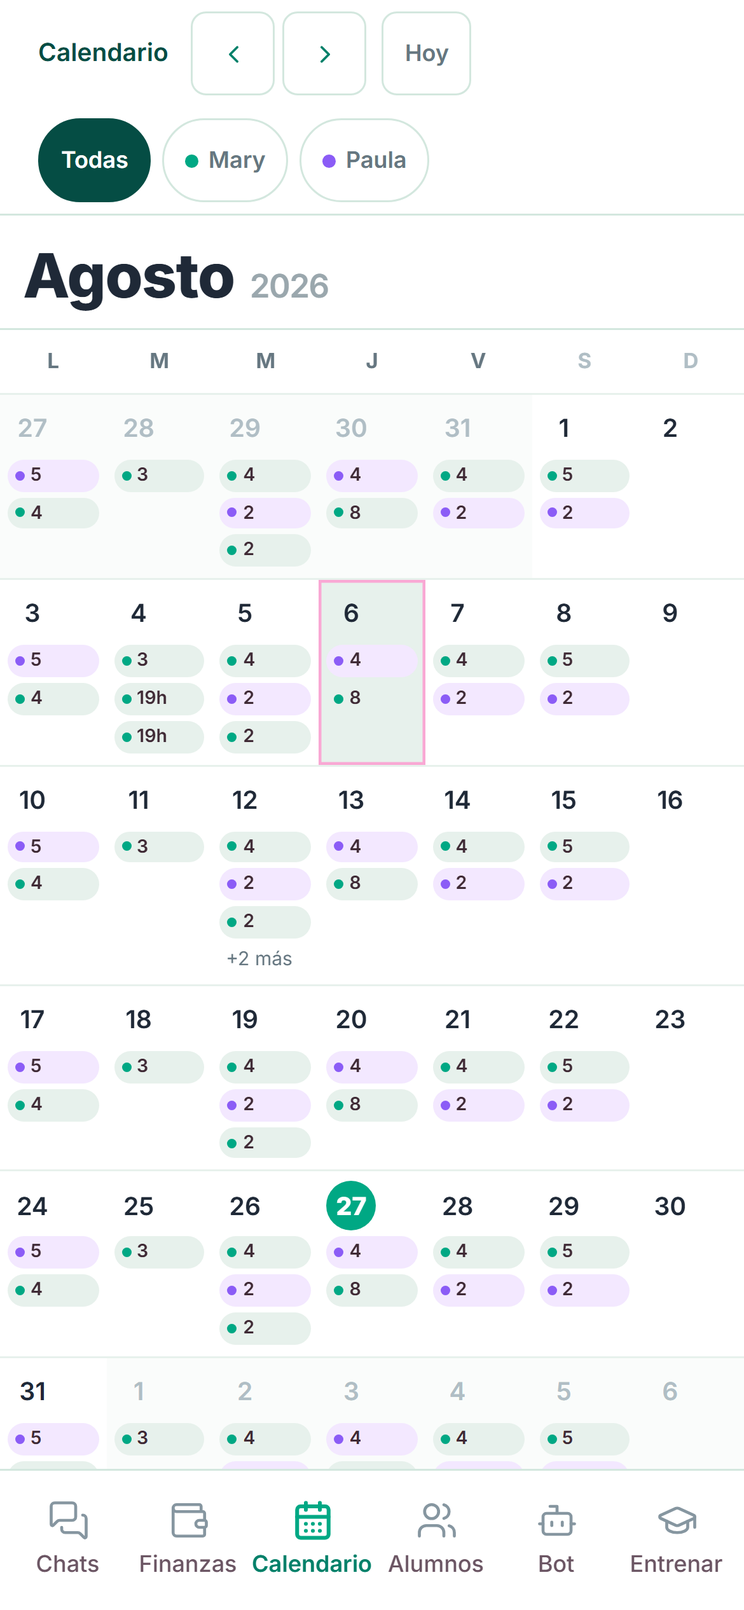
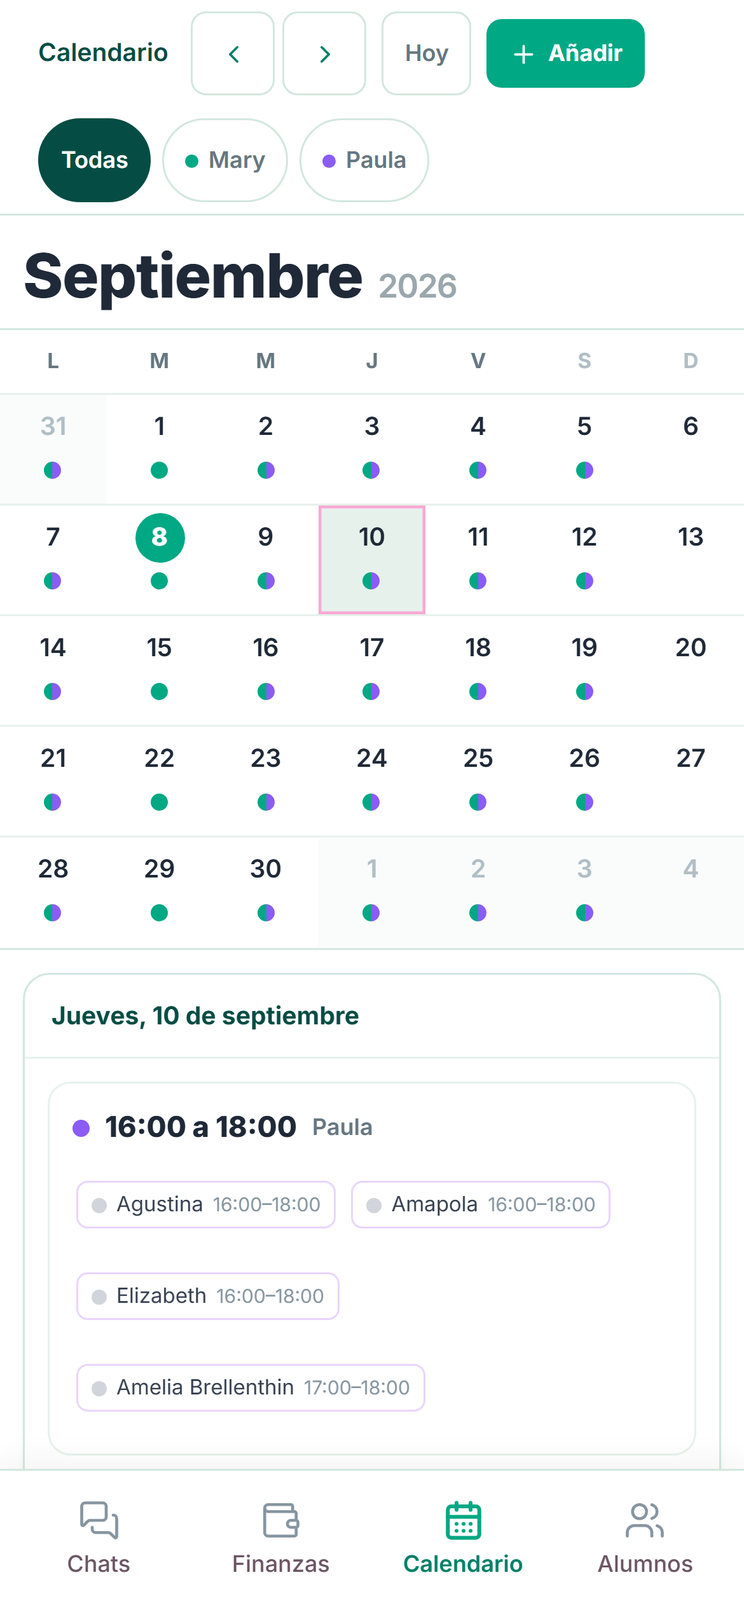
feat(calendario): un punto por dia, Anadir arriba y los alumnos del CRM
Los cinco encargos de Lukas del 08-09-2026 sobre el calendario:

- Fuera el boton "Dictar" (la pantalla de voz y /api/clases/voz siguen vivas).
- "Formulario" pasa a llamarse "Anadir" y sube a la barra del mes: en el
  telefono el detalle del dia queda DEBAJO del mes entero, asi que el boton
  vivia a un scroll de distancia.
- El mes en el telefono deja de estar lleno de pildoras: UN punto por dia,
  verde si solo hay clases de Mary, morado si solo son de Paula y partido por
  la mitad si estan las dos. En el computador no cambia nada.
- Fuera la linea verde de la izquierda de cada bloque y las pildoras de adorno
  ("vienen 4", "todas las semanas"): queda punto + hora + profesora y los
  alumnos debajo.
- El buscador de alumnos lista SOLO el CRM (37 fichas) y no los 74 contactos
  de WhatsApp, y guarda por nombre, no por id de la tabla clientes.

El test del iPhone custodiaba la regla contraria (celda alta con los nombres
escritos, que el pidio el 27-08): se reescribio a la regla nueva. 33/33.

diff --git a/src/app/calendario/page.tsx b/src/app/calendario/page.tsx
@@ -3,7 +3,7 @@
 import { useCallback, useEffect, useRef, useState } from 'react'
 import AppNav from '@/components/AppNav'
 import FormularioExtras, { type TipoExtra, type HorarioSala } from '@/components/FormularioExtras'
-import { DIA_LABEL, PROFES, PROFE_NOMBRES, profeColor, diaFromFecha } from '@/lib/calendario'
+import { DIA_LABEL, DIAS, PROFES, PROFE_NOMBRES, profeColor, diaFromFecha } from '@/lib/calendario'
 import { bloquesDelDia, type Ausencia, type InscripcionConAlumno, type AlumnoEnDia } from '@/lib/dia-clases'
 import { Plus, Trash2, Pencil, X, ChevronLeft, ChevronRight, Mic, Keyboard } from 'lucide-react'
 
@@ -16,6 +16,11 @@ type PagoFijo = { id: number; tipo: string; descripcion: string | null; monto: n
 // Recordatorio puntual de Mary: el aviso va a SU WhatsApp, nunca al apoderado.
 type Recordatorio = { id: number; fecha: string; hora: string | null; texto: string; avisar: boolean; enviadoAt: number | null; hecho: boolean; outboxId?: number | null }
 type ClienteLite = { id: number; nombre: string | null; telefono: string; horario: string[] }
+// Los alumnos del CRM (pestaña Alumnos). Es de donde sale el buscador del formulario
+// desde el 08-09-2026: antes listaba la tabla `clientes`, o sea TODOS los contactos de
+// WhatsApp (mamás preguntando precio incluidas), y Mary tenía que pescar a su alumno
+// entre gente que nunca fue a clases.
+type AlumnoCrm = { id: number; nombre: string; inscripciones: { dia: string; hora: string; profe: string | null }[] }
 // Quién vino y quién faltó. Lo llena el pase de lista de las 21:00 por WhatsApp,
 // y ella lo corrige tocando el puntito (ahí queda con fuente 'panel').
 type AsistenciaRow = { id: number; fecha: string; alumno: string; estado: 'vino' | 'falto'; fuente: string }
@@ -59,6 +64,21 @@ function fechaLarga(f: string): string {
   return capital(d.toLocaleDateString('es-CL', { weekday: 'long', day: 'numeric', month: 'long' }))
 }
 
+// El punto único del día en el teléfono. Una sola bolita en vez de la lista de
+// píldoras: verde si ese día solo hay clases de Mary, morado si solo son de Paula,
+// y partida por la mitad si están las dos (Lukas, 08-09-2026). El orden lo manda
+// PROFES, para que el verde caiga siempre a la izquierda.
+function puntoDelDia(chips: { pc: { nombre: string; color: string } }[]): { clave: string; fondo: string } | null {
+  if (chips.length === 0) return null
+  const orden = (n: string) => { const i = PROFES.findIndex(p => p.nombre === n); return i === -1 ? 99 : i }
+  const vistos = new Map<string, string>()
+  for (const c of chips) if (!vistos.has(c.pc.nombre)) vistos.set(c.pc.nombre, c.pc.color)
+  const profes = [...vistos.entries()].sort((a, b) => orden(a[0]) - orden(b[0]))
+  if (profes.length === 1) return { clave: profes[0][0].toLowerCase() || 'sin-profe', fondo: profes[0][1] }
+  const [a, b] = profes
+  return { clave: 'mixto', fondo: `linear-gradient(90deg, ${a[1]} 0 50%, ${b[1]} 50% 100%)` }
+}
+
 export default function CalendarioPage() {
   const hoy = ymd(new Date())
   const [cursor, setCursor] = useState(() => { const t = new Date(); return { y: t.getFullYear(), m: t.getMonth() } })
@@ -67,7 +87,10 @@ export default function CalendarioPage() {
   const [fijas, setFijas] = useState<ClaseFija[]>([])
   const [pagos, setPagos] = useState<PagoFijo[]>([])
   const [recordatorios, setRecordatorios] = useState<Recordatorio[]>([])
+  // `clientes` sigue vivo solo para PONERLE NOMBRE a las clases viejas, que guardaron
+  // ids de esa tabla. El buscador del formulario ya no lo usa.
   const [clientes, setClientes] = useState<ClienteLite[]>([])
+  const [alumnosCrm, setAlumnosCrm] = useState<AlumnoCrm[]>([])
   const [asistencia, setAsistencia] = useState<AsistenciaRow[]>([])
   // El horario de verdad: cada alumno con su día, su hora de salida y su profesora.
   // Vale para todas las semanas, así que se pide UNA vez y dibuja el mes entero.
@@ -110,7 +133,7 @@ export default function CalendarioPage() {
   const load = useCallback(async (d: string, h: string) => {
     setLoading(true)
     try {
-      const [c, cl, fj, pg, rc, as, ins, au] = await Promise.all([
+      const [c, cl, fj, pg, rc, as, ins, au, al] = await Promise.all([
         fetch(`/api/clases?desde=${d}&hasta=${h}`).then(r => r.json()),
         fetch('/api/clientes').then(r => r.json()),
         fetch('/api/clases-fijas').then(r => r.json()),
@@ -119,7 +142,9 @@ export default function CalendarioPage() {
         fetch(`/api/asistencia?desde=${d}&hasta=${h}`).then(r => r.json()),
         fetch('/api/inscripciones').then(r => r.json()),
         fetch(`/api/ausencias?desde=${d}&hasta=${h}`).then(r => r.json()),
+        fetch('/api/alumnos').then(r => r.json()),
       ])
+      if (al.ok) setAlumnosCrm(al.alumnos)
       if (as.ok) setAsistencia(as.asistencia)
       if (c.ok) setClases(c.clases)
       if (cl.ok) setClientes(cl.clientes)
@@ -152,9 +177,11 @@ export default function CalendarioPage() {
   }
   function openEdit(c: Clase) {
     setEditId(c.id); setSearch(''); setTipoForm('clase')
-    const nums = c.alumnos.filter((a): a is number => typeof a === 'number')
-    const extra = c.alumnos.filter((a) => typeof a !== 'number')
-    setForm({ fecha: c.fecha ?? sel, profe: c.profe, hora: c.hora ?? '', alumnos: nums, alumnosExtra: extra, nota: c.nota ?? '' })
+    // Los alumnos se manejan SIEMPRE por nombre (08-09-2026). Una clase vieja guardada
+    // con ids de la tabla `clientes` se traduce acá con el nombre que ya se muestra en
+    // pantalla, así al reeditarla no se pierde a nadie ni cambia lo que Mary ve.
+    const nombres = c.alumnos.map(a => etiquetaAlumno(a))
+    setForm({ fecha: c.fecha ?? sel, profe: c.profe, hora: c.hora ?? '', alumnos: [], alumnosExtra: nombres, nota: c.nota ?? '' })
     setShowForm(true)
   }
   function closeForm() { setShowForm(false); setEditId(null) }
@@ -342,7 +369,12 @@ export default function CalendarioPage() {
       if (ya) ya.alumnos.push(i.nombre)
       else m.set(clave, { clave, dia: i.dia, hora: i.hora, horaFin: i.horaFin, profe: i.profe, alumnos: [i.nombre] })
     }
-    return [...m.values()].sort((a, b) => a.dia.localeCompare(b.dia) || a.hora.localeCompare(b.hora))
+    // De LUNES a SÁBADO, y dentro de cada día de la hora más temprana a la más
+    // tarde. Antes se ordenaba con localeCompare, o sea por ALFABETO: salía
+    // "Jueves" antes que "Lunes" (Lukas, 08-09-2026). El orden bueno es el de
+    // DIAS en src/lib/calendario.ts; un día desconocido se va al final.
+    const orden = (d: string) => { const i = DIAS.indexOf(d as (typeof DIAS)[number]); return i === -1 ? 99 : i }
+    return [...m.values()].sort((a, b) => orden(a.dia) - orden(b.dia) || a.hora.localeCompare(b.hora))
   })()
 
   // El chip de un alumno suelto (clases viejas y eventos puntuales): sin ficha no
@@ -455,17 +487,27 @@ export default function CalendarioPage() {
     } catch { alert('No se pudo guardar. Revisa tu internet.') }
   }
 
-  // Selector de alumnos del modal: primero los que vienen ese día, con búsqueda.
+  // Selector de alumnos del modal: SOLO los del CRM (pestaña Alumnos), primero los que
+  // vienen ese día, con búsqueda. Se guardan por NOMBRE, que es como el calendario ya
+  // pinta a los alumnos sueltos y como la asistencia los reconoce.
   const diaForm = diaFromFecha(form.fecha)
-  const clientesOrdenados = [...clientes]
-    .filter(c => !search.trim() || (c.nombre ?? '').toLowerCase().includes(search.toLowerCase()))
+  const vieneEseDia = (a: AlumnoCrm) => a.inscripciones.some(i => i.dia === diaForm)
+  const alumnosOrdenados = [...alumnosCrm]
+    .filter(a => !search.trim() || a.nombre.toLowerCase().includes(search.toLowerCase()))
     .sort((a, b) => {
-      const ad = a.horario.includes(diaForm) ? 0 : 1
-      const bd = b.horario.includes(diaForm) ? 0 : 1
-      return ad - bd || (a.nombre ?? '').localeCompare(b.nombre ?? '')
+      const ad = vieneEseDia(a) ? 0 : 1
+      const bd = vieneEseDia(b) ? 0 : 1
+      return ad - bd || a.nombre.localeCompare(b.nombre)
     })
-  function toggleAlumno(id: number) {
-    setForm(f => ({ ...f, alumnos: f.alumnos.includes(id) ? f.alumnos.filter(x => x !== id) : [...f.alumnos, id] }))
+  const estaElegido = (nombre: string) =>
+    form.alumnosExtra.some(x => String(x).toLowerCase() === nombre.toLowerCase())
+  function toggleAlumno(nombre: string) {
+    setForm(f => ({
+      ...f,
+      alumnosExtra: estaElegido(nombre)
+        ? f.alumnosExtra.filter(x => String(x).toLowerCase() !== nombre.toLowerCase())
+        : [...f.alumnosExtra, nombre],
+    }))
   }
 
   const monthName = capital(new Date(cursor.y, cursor.m, 1).toLocaleDateString('es-CL', { month: 'long', year: 'numeric' }))
@@ -483,6 +525,13 @@ export default function CalendarioPage() {
             <span className="cal-mes-barra" style={{ fontSize: 13, fontWeight: 700, color: '#054D44', minWidth: 130, textAlign: 'center' }}>{monthName}</span>
             <button onClick={() => goMonth(1)} title="Mes siguiente" style={{ display: 'flex', border: '1px solid #D3E7DE', background: '#fff', borderRadius: 8, padding: 5, cursor: 'pointer', color: '#008069' }}><ChevronRight size={15} /></button>
             <button onClick={irHoy} style={{ marginLeft: 4, border: '1px solid #D3E7DE', background: '#fff', borderRadius: 8, padding: '5px 11px', cursor: 'pointer', color: '#667781', fontFamily: 'inherit', fontSize: 12, fontWeight: 600 }}>Hoy</button>
+            {/* "Añadir" arriba del todo (Lukas, 08-09-2026): en el teléfono el detalle
+                del día queda DEBAJO del mes entero, así que el botón vivía a un scroll
+                de distancia. Acá está siempre a la vista y agenda en el día elegido. */}
+            <button onClick={() => openNew(sel)} title="Añadir una clase o un recado a este día"
+              style={{ display: 'flex', alignItems: 'center', gap: 5, marginLeft: 4, minHeight: 36, border: 'none', background: '#00A884', color: '#fff', borderRadius: 8, padding: '5px 12px', cursor: 'pointer', fontFamily: 'inherit', fontSize: 12, fontWeight: 700 }}>
+              <Plus size={15} /> Añadir
+            </button>
           </div>
           <div className="flex-1" />
           <div className="flex items-center gap-1.5" style={{ flexWrap: 'wrap' }}>
@@ -603,6 +652,17 @@ export default function CalendarioPage() {
                           ))}
                           {chips.length > 3 && <span style={{ fontSize: 10, color: '#667781', paddingLeft: 3 }}>+{chips.length - 3} más</span>}
                         </div>
+                        {/* EN EL TELÉFONO: un solo punto por día (Lukas, 08-09-2026: "que no
+                            esté lleno de puntos, busca una forma más minimalista, como solo
+                            un punto mitad morado y verde"). Verde entero si ese día solo hay
+                            clases de Mary, morado entero si solo son de Paula, y partido por
+                            la mitad si están las dos. Día sin nada = sin punto. En el
+                            computador no cambia nada: ahí siguen los nombres escritos. */}
+                        {puntoDelDia(chips) && (
+                          <div className="cal-punto-movil" data-punto={puntoDelDia(chips)!.clave}>
+                            <span style={{ width: 9, height: 9, borderRadius: '50%', background: puntoDelDia(chips)!.fondo, display: 'block' }} />
+                          </div>
+                        )}
                       </button>
                     )
                   })}
@@ -614,18 +674,11 @@ export default function CalendarioPage() {
             <aside className="cal-detail">
               <div style={{ background: '#fff', border: '1px solid #D3E7DE', borderRadius: 14, overflow: 'hidden', boxShadow: '0 1px 3px rgba(0,128,105,0.06)' }}>
                 <div className="flex items-center gap-2" style={{ padding: '12px 14px', borderBottom: '1px solid #E7F1EC' }}>
+                  {/* El dictado por voz salió de la pantalla (Lukas, 08-09-2026: "en el
+                      calendario sácale el dictar"). La pantalla de voz y su API
+                      /api/clases/voz siguen vivas: volver a ponerlo es un botón.
+                      Y "Formulario" ahora es "Añadir", arriba en la barra del mes. */}
                   <p style={{ flex: 1, fontSize: 13, fontWeight: 700, color: '#054D44' }}>{fechaLarga(sel)}</p>
-                  {/* Dos caminos SEPARADOS y a la vista (Lukas, 11-08-2026): antes el único
-                      botón abría el dictado y el formulario quedaba escondido detrás de
-                      «Prefiero a mano», así que parecía que no existía. */}
-                  <button onClick={abrirVoz} title="Dictar por voz"
-                    style={{ display: 'flex', alignItems: 'center', gap: 5, border: '1px solid #00A884', background: '#fff', color: '#008069', borderRadius: 8, padding: '6px 10px', cursor: 'pointer', fontFamily: 'inherit', fontSize: 12, fontWeight: 700 }}>
-                    <Mic size={14} /> Dictar
-                  </button>
-                  <button onClick={() => openNew(sel)} title="Llenar el formulario a mano"
-                    style={{ display: 'flex', alignItems: 'center', gap: 5, border: 'none', background: '#00A884', color: '#fff', borderRadius: 8, padding: '6px 10px', cursor: 'pointer', fontFamily: 'inherit', fontSize: 12, fontWeight: 700 }}>
-                    <Keyboard size={14} /> Formulario
-                  </button>
                 </div>
                 <div style={{ padding: 12, maxHeight: 'calc(100vh - 180px)', overflowY: 'auto' }}>
                   {/* Las salas del horario: una por profesora, con su gente dentro y cada
@@ -635,15 +688,19 @@ export default function CalendarioPage() {
                     const pc = profeColor(s.profe ?? '')
                     const fuera = s.alumnos.length - s.vienen
                     return (
+                      // 08-09-2026: fuera la línea verde de la izquierda y las píldoras de
+                      // adorno ("vienen 4", "todas las semanas"). Queda una sola línea:
+                      // punto de color + hora + profesora, y debajo los alumnos, que es
+                      // lo único que Mary lee de verdad.
                       <div key={`sala-${s.profe ?? 'sp'}`} data-sala={s.profe ?? 'sin-profe'}
-                        style={{ background: '#fff', border: `1px solid ${pc.bd}`, borderLeft: `3px solid ${pc.color}`, borderRadius: 10, padding: '9px 11px', marginBottom: 8 }}>
-                        <div className="flex items-center gap-2" style={{ marginBottom: 5, flexWrap: 'wrap' }}>
+                        style={{ background: '#fff', border: '1px solid #E7F1EC', borderRadius: 12, padding: 12, marginBottom: 8 }}>
+                        <div className="flex items-center gap-2" style={{ marginBottom: 7, flexWrap: 'wrap' }}>
+                          <span style={{ width: 9, height: 9, borderRadius: '50%', background: pc.color, flexShrink: 0 }} />
                           <span style={{ fontSize: 15, fontWeight: 800, color: '#1F2937' }}>{rangoSala(s.hora, s.horaFin)}</span>
-                          <span style={{ fontSize: 11, fontWeight: 700, color: pc.color, flex: 1 }}>{s.profe ?? 'sin profesora'}</span>
-                          <span style={{ fontSize: 10, fontWeight: 700, color: '#667781', background: '#F3F9F6', border: '1px solid #D3E7DE', borderRadius: 999, padding: '2px 8px' }}>
-                            {s.vienen === 1 ? 'viene 1' : `vienen ${s.vienen}`}{fuera ? ` · ${fuera} no` : ''}
-                          </span>
-                          <span style={{ fontSize: 10, fontWeight: 700, color: '#667781', background: '#F3F9F6', border: '1px solid #D3E7DE', borderRadius: 999, padding: '2px 8px' }}>todas las semanas</span>
+                          <span style={{ fontSize: 12, fontWeight: 600, color: '#667781', flex: 1 }}>{s.profe ?? 'sin profesora'}</span>
+                          {fuera > 0 && (
+                            <span style={{ fontSize: 11, color: '#9AA7AD' }}>{fuera === 1 ? '1 no viene' : `${fuera} no vienen`}</span>
+                          )}
                         </div>
                         <div className="flex flex-wrap gap-1">
                           {s.alumnos.map(a => chipInscrito(sel, a, pc.bd))}
@@ -657,11 +714,12 @@ export default function CalendarioPage() {
                   {!loading && fijasSel.map(f => {
                     const pc = profeColor(f.profe)
                     return (
-                      <div key={`fija-${f.id}`} style={{ background: '#fff', border: `1px dashed ${pc.color}`, borderLeft: `3px double ${pc.color}`, borderRadius: 10, padding: '9px 11px', marginBottom: 8 }}>
-                        <div className="flex items-center gap-2" style={{ marginBottom: 5, flexWrap: 'wrap' }}>
+                      <div key={`fija-${f.id}`} style={{ background: '#fff', border: '1px solid #E7F1EC', borderRadius: 12, padding: 12, marginBottom: 8 }}>
+                        <div className="flex items-center gap-2" style={{ marginBottom: 7, flexWrap: 'wrap' }}>
+                          <span style={{ width: 9, height: 9, borderRadius: '50%', background: pc.color, flexShrink: 0 }} />
                           <span style={{ fontSize: 15, fontWeight: 800, color: '#1F2937' }}>{rango(f)}</span>
-                          <span style={{ fontSize: 11, fontWeight: 700, color: pc.color, flex: 1 }}>{f.profe}</span>
-                          <span style={{ fontSize: 10, fontWeight: 700, color: '#667781', background: '#F3F9F6', border: '1px solid #D3E7DE', borderRadius: 999, padding: '2px 8px' }}>todas las semanas</span>
+                          <span style={{ fontSize: 12, fontWeight: 600, color: '#667781', flex: 1 }}>{f.profe}</span>
+                          <span style={{ fontSize: 11, color: '#9AA7AD' }}>todas las semanas</span>
                         </div>
                         <div className="flex flex-wrap gap-1">
                           {f.alumnos.length === 0 ? <span style={{ fontSize: 11, color: '#9CA3AF' }}>Sin alumnos</span>
@@ -678,11 +736,11 @@ export default function CalendarioPage() {
                   {/* Pagos que vuelven cada mes y recordatorios: van con otro color para que
                       no se confundan con una clase de un vistazo. */}
                   {!loading && pagosSel.map(p => (
-                    <div key={`pago-${p.id}`} style={{ background: '#FFFBEB', border: '1px solid #FDE68A', borderLeft: '3px solid #F59E0B', borderRadius: 10, padding: '9px 11px', marginBottom: 8 }}>
+                    <div key={`pago-${p.id}`} style={{ background: '#FFFBEB', border: '1px solid #FDE68A', borderRadius: 12, padding: 12, marginBottom: 8 }}>
                       <div className="flex items-center gap-2">
                         <span style={{ fontSize: 14, fontWeight: 800, color: '#92400E' }}>{pesos(p.monto)}</span>
-                        <span style={{ fontSize: 11, fontWeight: 700, color: '#B45309', flex: 1 }}>{ETIQUETA_PAGO[p.tipo] ?? p.tipo}</span>
-                        <span style={{ fontSize: 10, fontWeight: 700, color: '#92400E', background: '#FEF3C7', border: '1px solid #FDE68A', borderRadius: 999, padding: '2px 8px' }}>todos los meses</span>
+                        <span style={{ fontSize: 12, fontWeight: 600, color: '#B45309', flex: 1 }}>{ETIQUETA_PAGO[p.tipo] ?? p.tipo}</span>
+                        <span style={{ fontSize: 11, color: '#B45309' }}>todos los meses</span>
                         <button onClick={() => borrarExtra(`/api/pagos-fijos/${p.id}`, '¿Borrar este pago? Deja de aparecer todos los meses.')} title="Borrar"
                           style={{ display: 'flex', border: 'none', background: 'transparent', cursor: 'pointer', color: '#B45309' }}><Trash2 size={13} /></button>
                       </div>
@@ -690,7 +748,7 @@ export default function CalendarioPage() {
                     </div>
                   ))}
                   {!loading && recordatoriosSel.map(r => (
-                    <div key={`rec-${r.id}`} style={{ background: '#EFF6FF', border: '1px solid #BFDBFE', borderLeft: '3px solid #3B82F6', borderRadius: 10, padding: '9px 11px', marginBottom: 8 }}>
+                    <div key={`rec-${r.id}`} style={{ background: '#EFF6FF', border: '1px solid #BFDBFE', borderRadius: 12, padding: 12, marginBottom: 8 }}>
                       <div className="flex items-center gap-2">
                         <span style={{ fontSize: 14, fontWeight: 800, color: '#1E3A8A' }}>{r.hora ?? '—'}</span>
                         <span style={{ fontSize: 12, color: '#1E40AF', flex: 1, textDecoration: r.hecho ? 'line-through' : 'none' }}>{r.texto}</span>
@@ -713,14 +771,15 @@ export default function CalendarioPage() {
                     </div>
                   ))}
                   {loading ? <p style={{ fontSize: 12, color: '#9AA7AD', textAlign: 'center', padding: '24px 0' }}>Cargando…</p>
-                    : eventosSel.length === 0 && fijasSel.length === 0 && salasSel.length === 0 && pagosSel.length === 0 && recordatoriosSel.length === 0 ? <p style={{ fontSize: 12, color: '#8696A0', textAlign: 'center', padding: '24px 0' }}>Sin nada este día.<br />Toca «Agregar» para crear algo.</p>
+                    : eventosSel.length === 0 && fijasSel.length === 0 && salasSel.length === 0 && pagosSel.length === 0 && recordatoriosSel.length === 0 ? <p style={{ fontSize: 12, color: '#8696A0', textAlign: 'center', padding: '24px 0' }}>Sin nada este día.<br />Toca «Añadir», arriba, para crear algo.</p>
                     : eventosSel.map(c => {
                       const pc = profeColor(c.profe)
                       return (
-                        <div key={c.id} style={{ background: pc.bg, border: `1px solid ${pc.bd}`, borderLeft: `3px solid ${pc.color}`, borderRadius: 10, padding: '9px 11px', marginBottom: 8 }}>
-                          <div className="flex items-center gap-2" style={{ marginBottom: 5 }}>
+                        <div key={c.id} style={{ background: '#fff', border: '1px solid #E7F1EC', borderRadius: 12, padding: 12, marginBottom: 8 }}>
+                          <div className="flex items-center gap-2" style={{ marginBottom: 7 }}>
+                            <span style={{ width: 9, height: 9, borderRadius: '50%', background: pc.color, flexShrink: 0 }} />
                             <span style={{ fontSize: 15, fontWeight: 800, color: '#1F2937' }}>{c.hora || '—'}</span>
-                            <span style={{ fontSize: 11, fontWeight: 700, color: pc.color, flex: 1 }}>{c.profe}</span>
+                            <span style={{ fontSize: 12, fontWeight: 600, color: '#667781', flex: 1 }}>{c.profe}</span>
                             <button onClick={() => openEdit(c)} title="Editar" style={{ display: 'flex', border: 'none', background: 'transparent', cursor: 'pointer', color: '#667781' }}><Pencil size={13} /></button>
                             <button onClick={() => del(c)} title="Borrar" style={{ display: 'flex', border: 'none', background: 'transparent', cursor: 'pointer', color: '#667781' }}><Trash2 size={13} /></button>
                           </div>
@@ -917,19 +976,19 @@ export default function CalendarioPage() {
             <input value={search} onChange={e => setSearch(e.target.value)} placeholder="Buscar alumno…"
               style={{ width: '100%', margin: '4px 0 8px', padding: '8px 10px', borderRadius: 8, border: '1px solid #D3E7DE', fontFamily: 'inherit', fontSize: 13 }} />
             <div style={{ maxHeight: 200, overflowY: 'auto', border: '1px solid #E7F1EC', borderRadius: 8 }}>
-              {clientesOrdenados.map(c => {
-                const selA = form.alumnos.includes(c.id)
-                const esDelDia = c.horario.includes(diaForm)
+              {alumnosOrdenados.map(a => {
+                const selA = estaElegido(a.nombre)
+                const esDelDia = vieneEseDia(a)
                 return (
-                  <button type="button" key={c.id} onClick={() => toggleAlumno(c.id)}
-                    style={{ width: '100%', display: 'flex', alignItems: 'center', gap: 8, padding: '7px 10px', border: 'none', borderBottom: '1px solid #F3F9F6', cursor: 'pointer', fontFamily: 'inherit', fontSize: 13, textAlign: 'left', background: selA ? '#E7F1EC' : '#fff' }}>
+                  <button type="button" key={a.id} data-alumno={a.nombre} onClick={() => toggleAlumno(a.nombre)}
+                    style={{ width: '100%', display: 'flex', alignItems: 'center', gap: 8, minHeight: 44, padding: '7px 10px', border: 'none', borderBottom: '1px solid #F3F9F6', cursor: 'pointer', fontFamily: 'inherit', fontSize: 13, textAlign: 'left', background: selA ? '#E7F1EC' : '#fff' }}>
                     <span style={{ width: 15, height: 15, borderRadius: 4, border: '1px solid ' + (selA ? '#00A884' : '#D3E7DE'), background: selA ? '#00A884' : '#fff', display: 'inline-flex', alignItems: 'center', justifyContent: 'center', color: '#fff', fontSize: 11, flexShrink: 0 }}>{selA ? '✓' : ''}</span>
-                    <span style={{ flex: 1, color: '#374151' }}>{c.nombre || c.telefono}</span>
+                    <span style={{ flex: 1, color: '#374151' }}>{a.nombre}</span>
                     {esDelDia && <span style={{ fontSize: 10, fontWeight: 700, color: '#00A884', background: '#E7F1EC', borderRadius: 5, padding: '1px 6px' }}>viene {DIA_LABEL[diaForm] ?? diaForm}</span>}
                   </button>
                 )
               })}
-              {clientesOrdenados.length === 0 && <p style={{ fontSize: 12, color: '#9AA7AD', textAlign: 'center', padding: '14px 0' }}>Sin clientes</p>}
+              {alumnosOrdenados.length === 0 && <p style={{ fontSize: 12, color: '#9AA7AD', textAlign: 'center', padding: '14px 0' }}>{search.trim() ? 'Ningún alumno con ese nombre' : 'Todavía no hay alumnos en el CRM'}</p>}
             </div>
 
             <button type="submit" disabled={guardando} style={{ width: '100%', marginTop: 16, minHeight: 46, padding: '10px', borderRadius: 9, border: 'none', background: '#00A884', color: '#fff', fontWeight: 700, fontSize: 14, cursor: guardando ? 'default' : 'pointer', opacity: guardando ? 0.6 : 1, fontFamily: 'inherit' }}>{guardando ? 'Guardando…' : 'Guardar'}</button>
